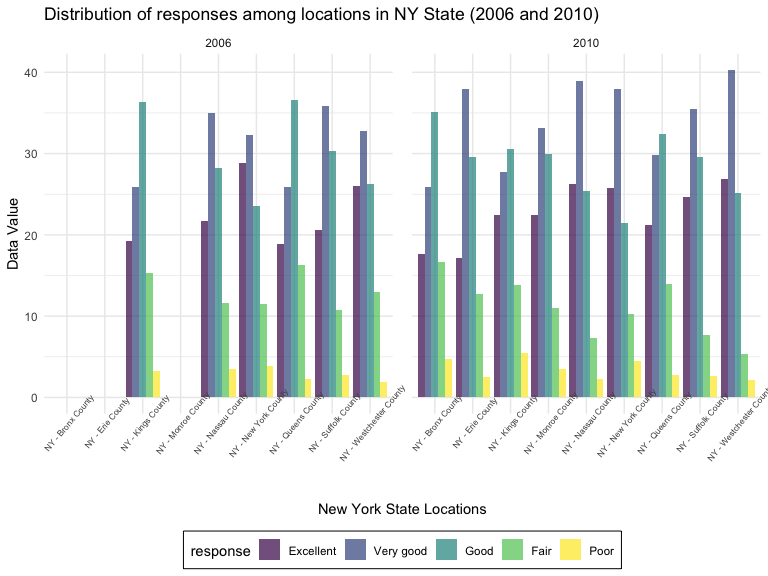
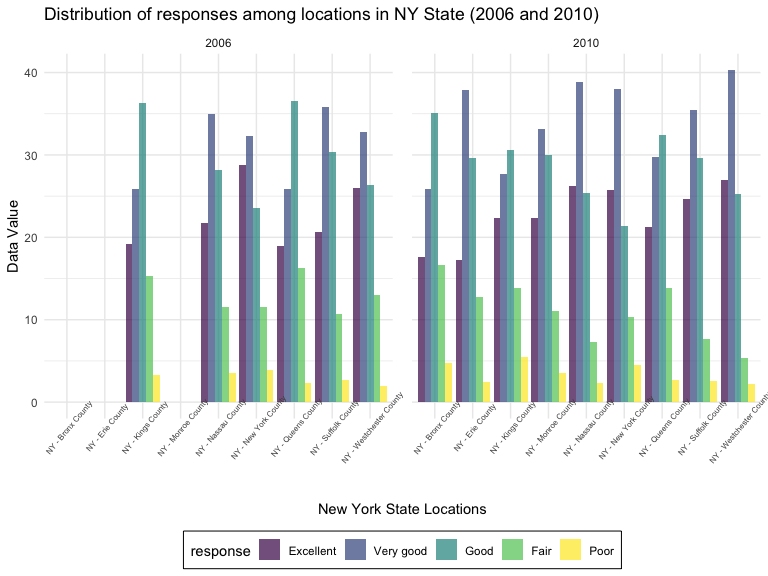
font size

diff --git a/p8105_hw3_wz2630.md b/p8105_hw3_wz2630.md
@@ -247,7 +247,7 @@ brfss |>
   theme(legend.position = "bottom",
         legend.box.background = element_rect(),
         panel.spacing = unit(1, "lines"),
-        axis.text.x = element_text(angle = 50, size = 6.4))
+        axis.text.x = element_text(angle = 50, size = 6))
 ```
 
 <img src="p8105_hw3_wz2630_files/figure-gfm/unnamed-chunk-11-1.png" width="90%" />
